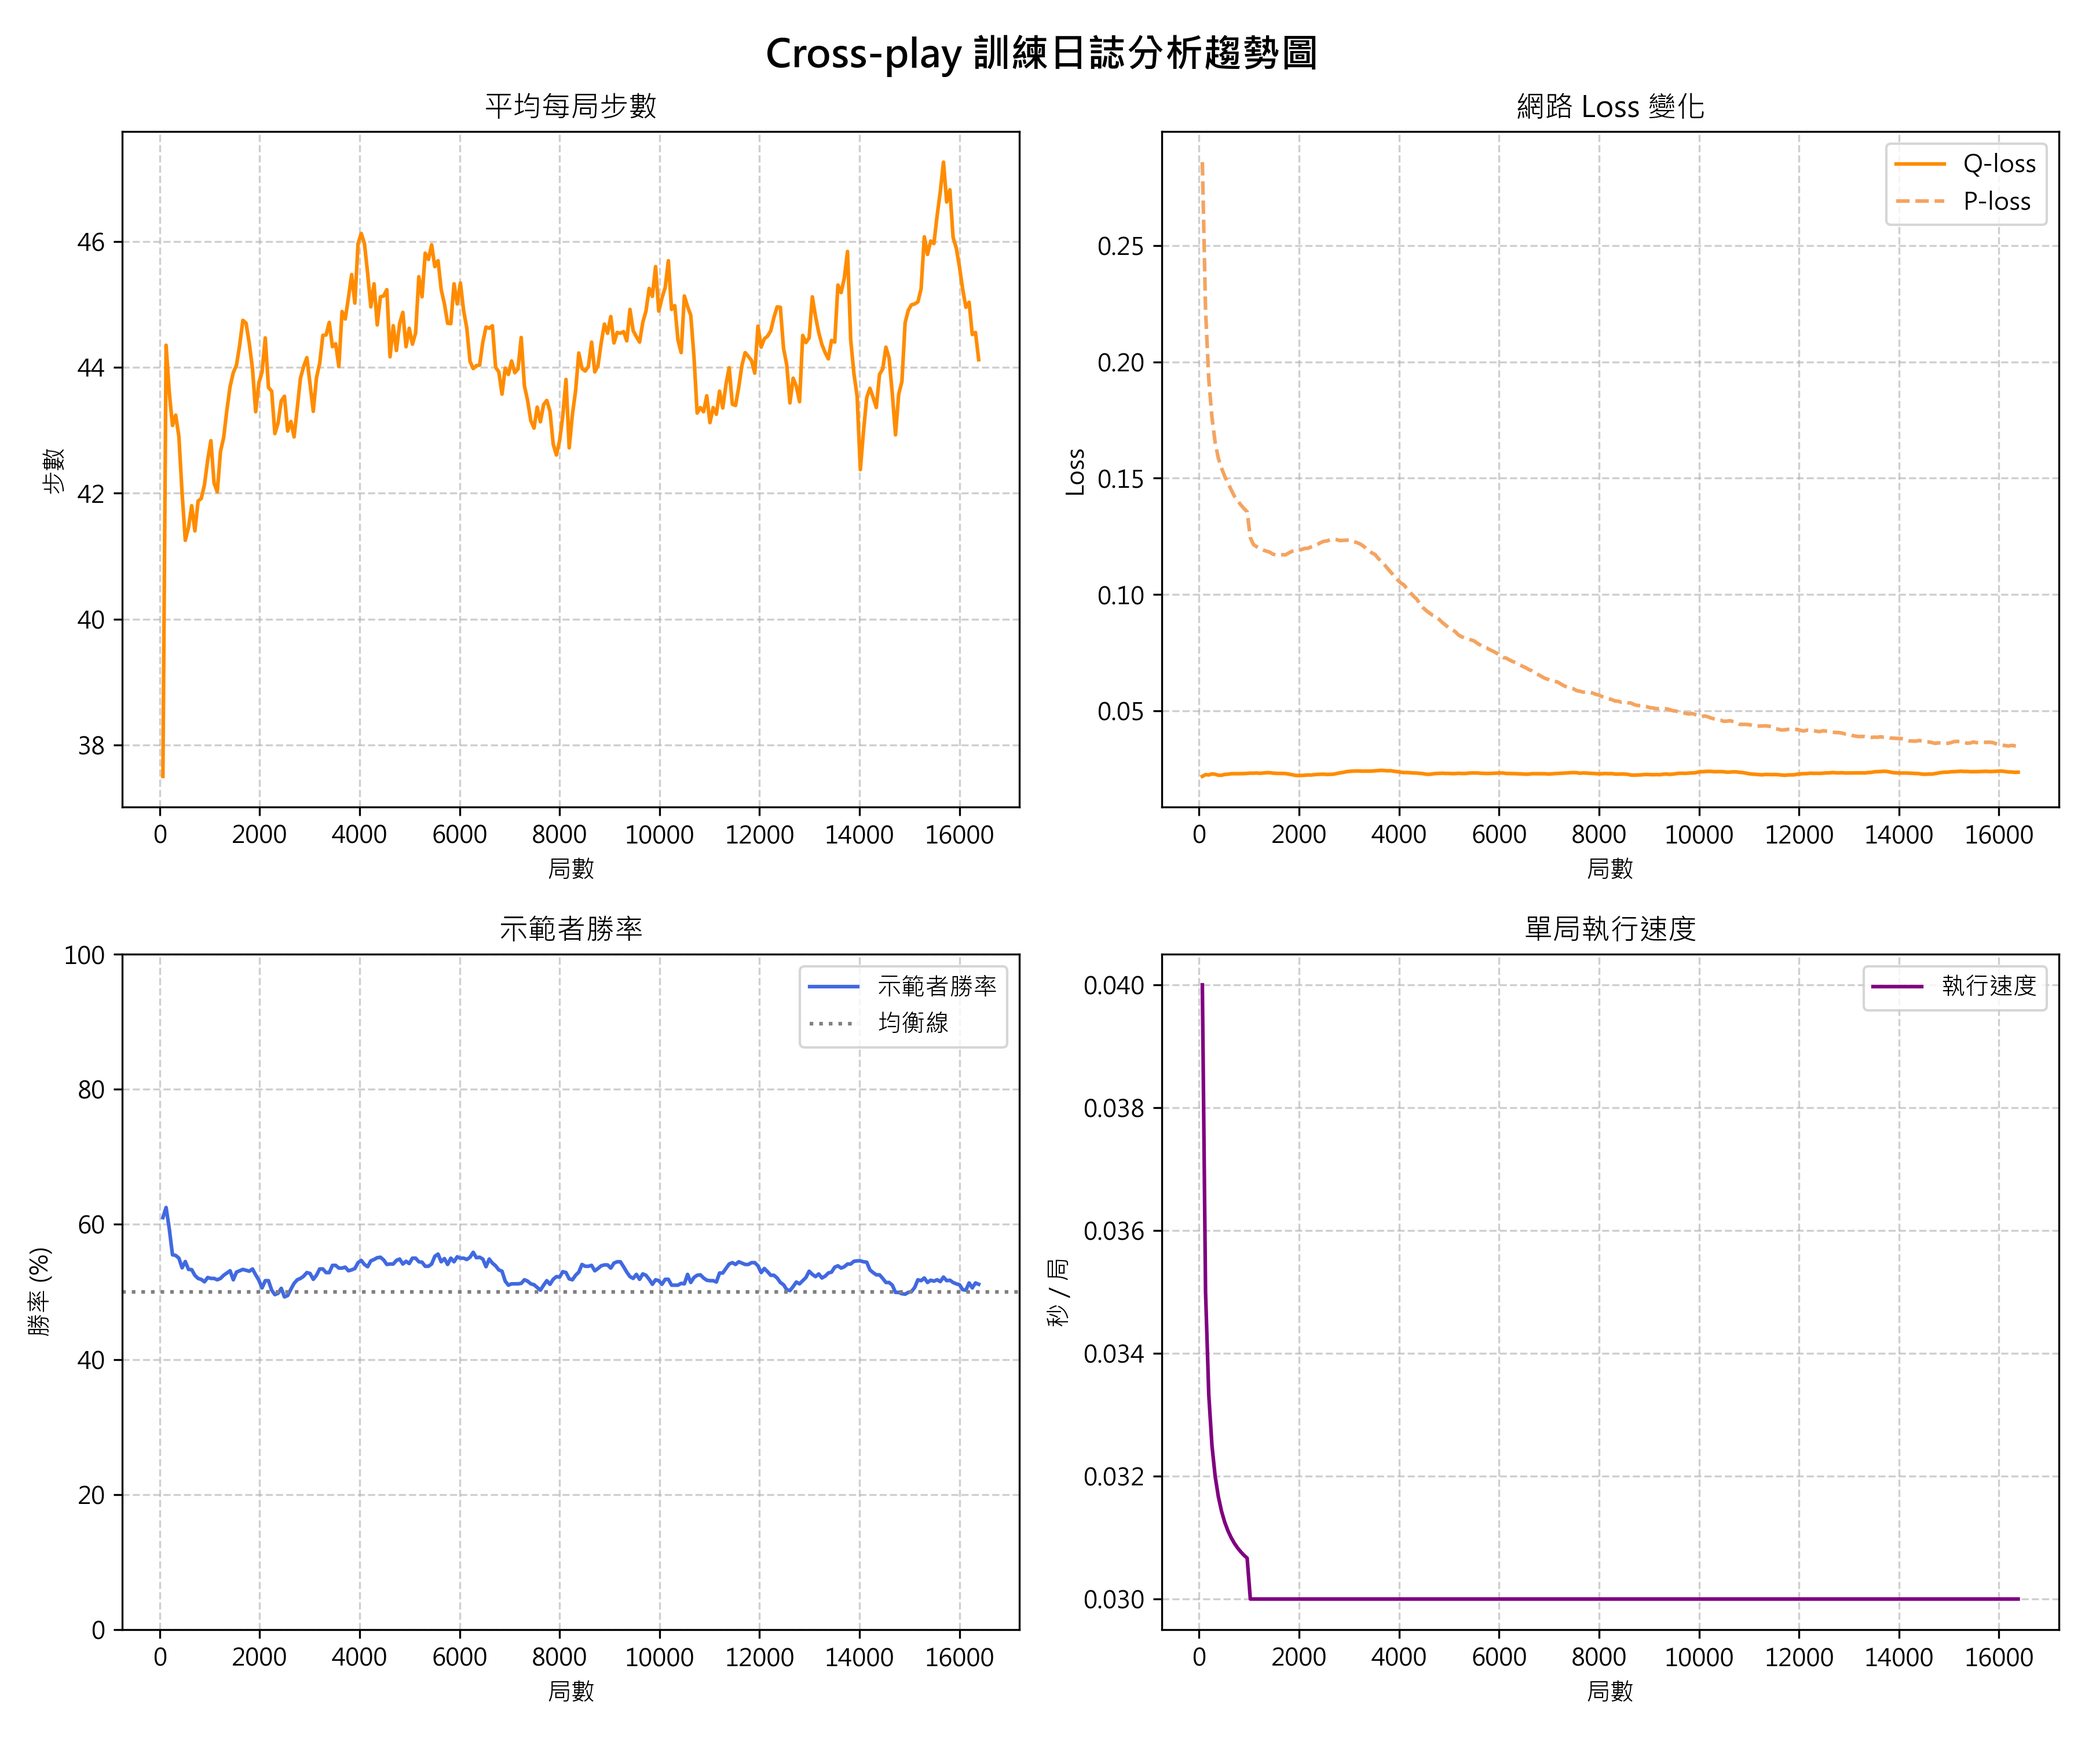
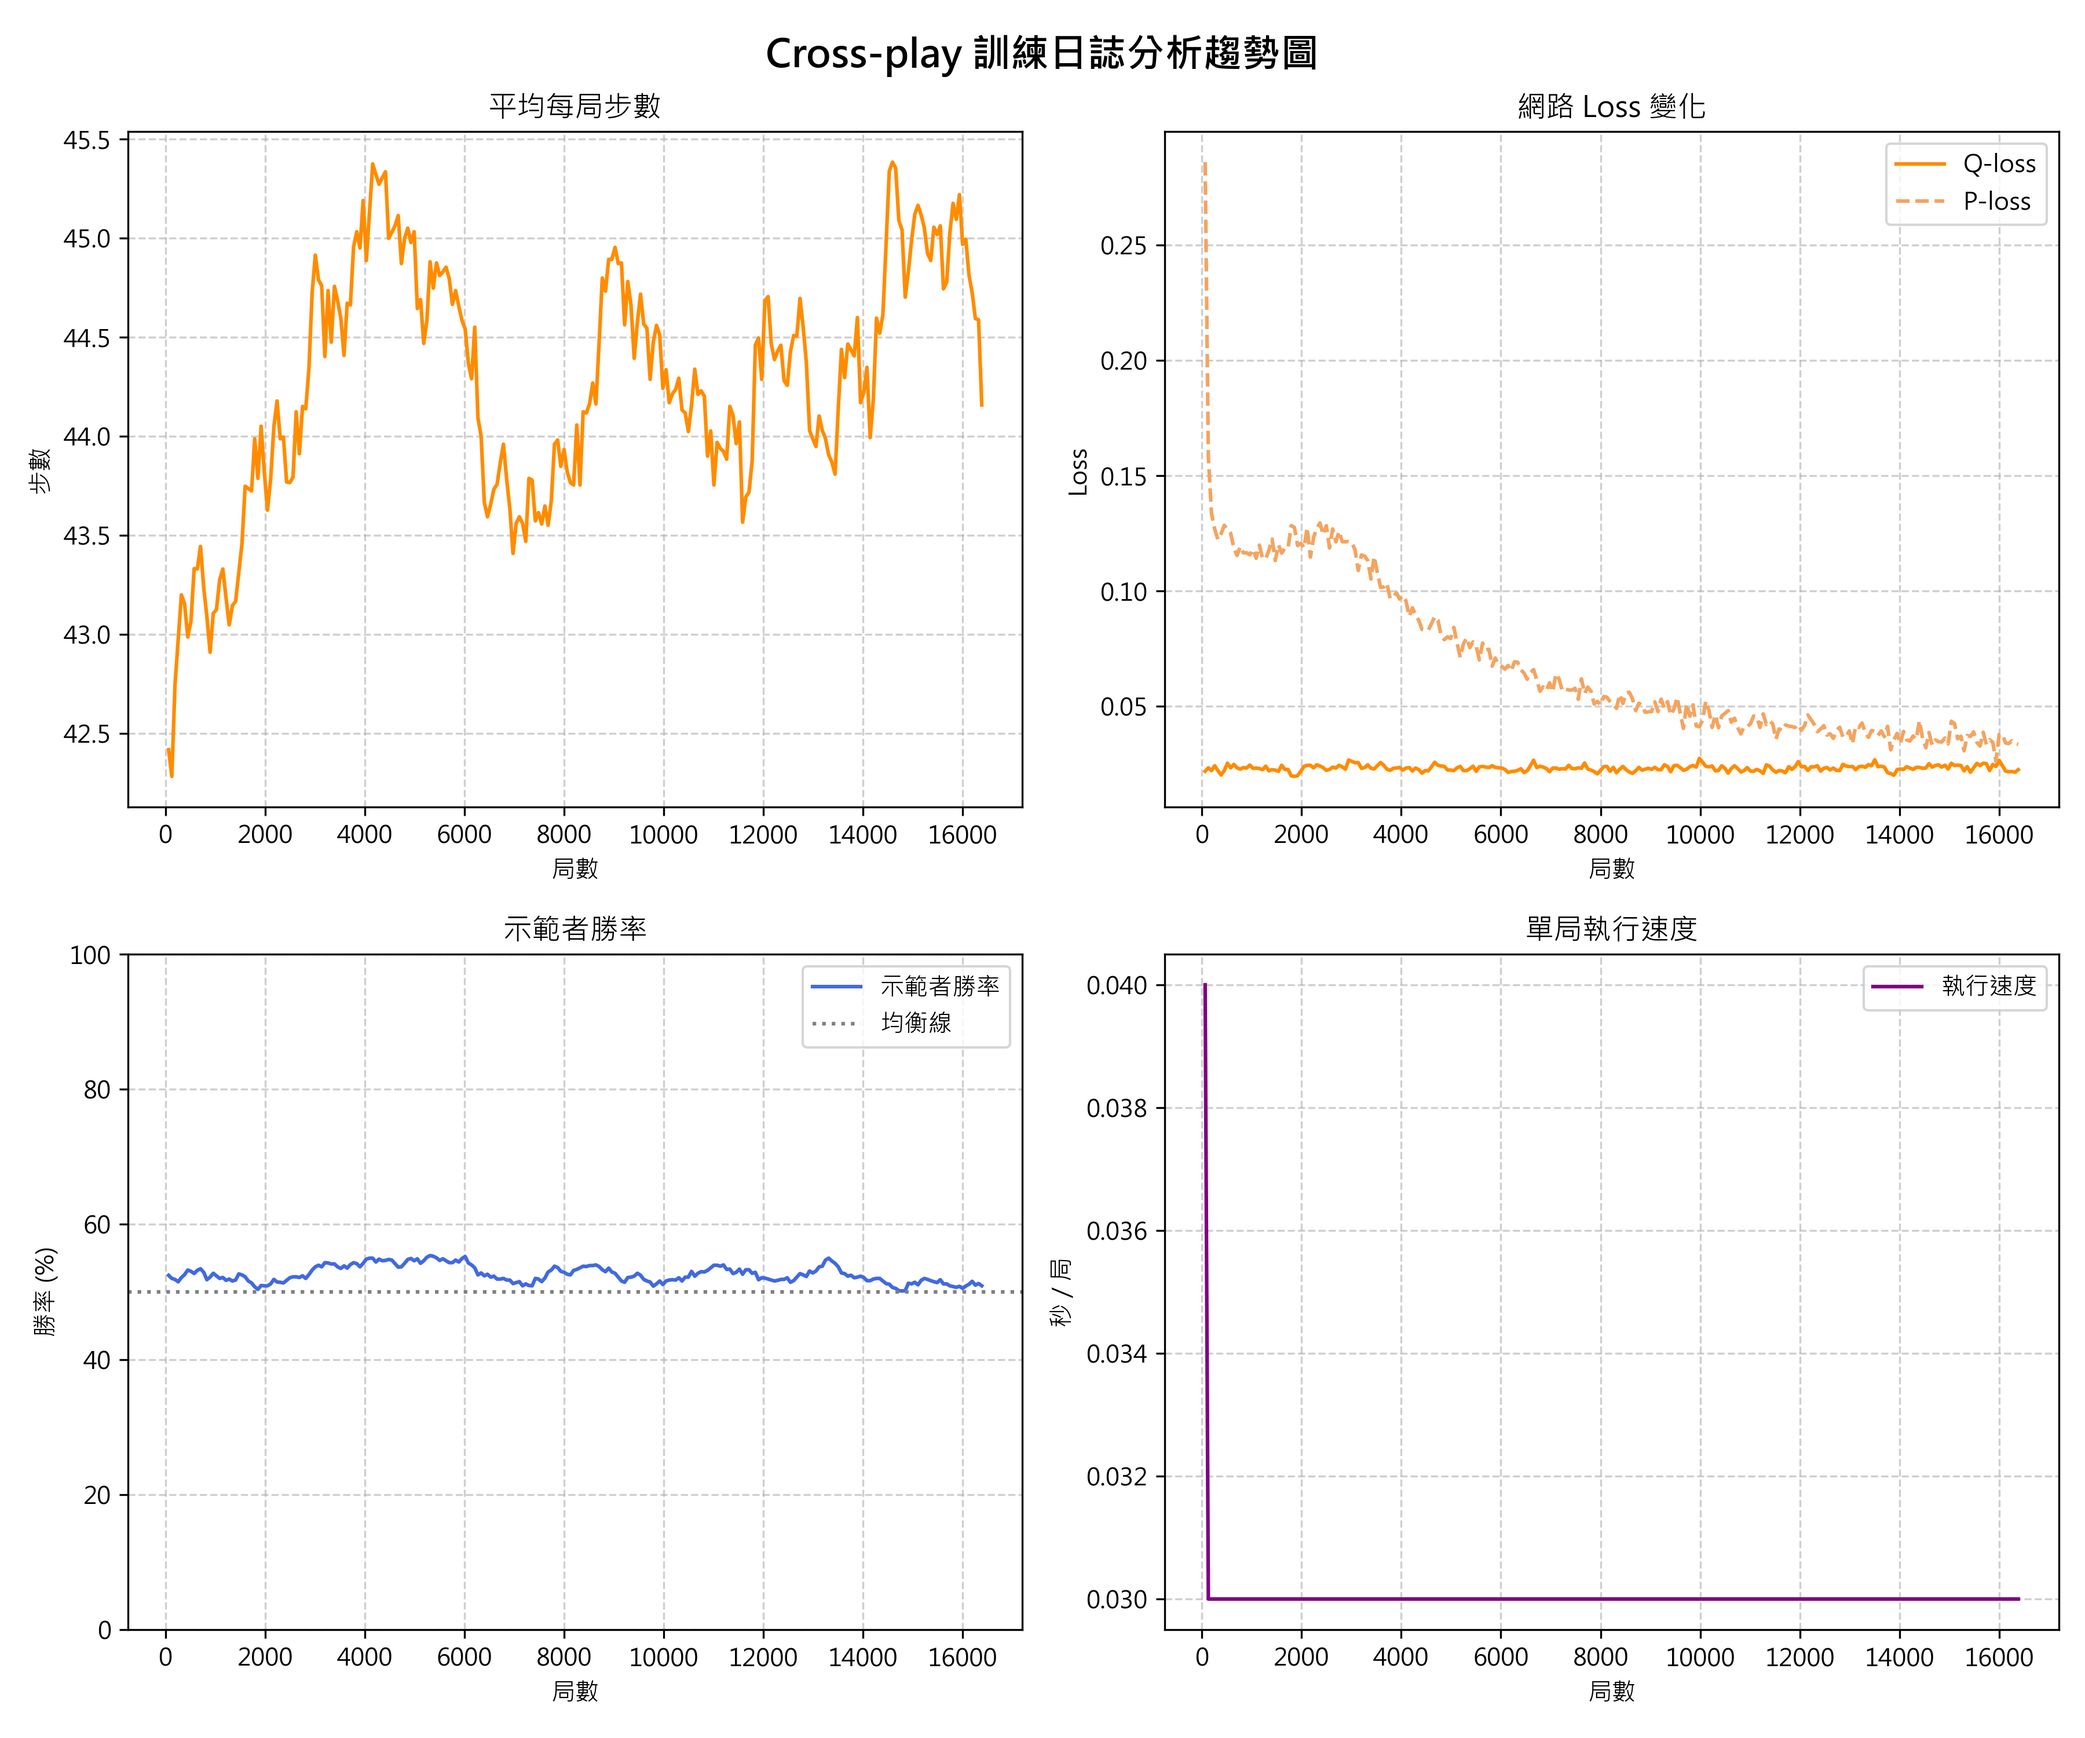
smooth better

diff --git a/src/visualize/log_parser.py b/src/visualize/log_parser.py
@@ -24,10 +24,12 @@ def smooth_data(values: list[float], window: int = 15) -> list[float]:
     """計算指定視窗大小的移動平均，使圖表平滑"""
     smoothed: list[float] = []
     n: int = len(values)
+    half_w: int = window // 2
     i: int
     for i in range(n):
-        start: int = max(0, i - window + 1)
-        chunk: list[float] = values[start : i + 1]
+        start: int = max(0, i - half_w)
+        end: int = min(n, i + half_w + 1)
+        chunk: list[float] = values[start : end]
         avg: float = sum(chunk) / float(len(chunk))
         smoothed.append(avg)
     return smoothed
@@ -60,12 +62,12 @@ def parse_selfplay_file(filepath: str) -> SelfPlayData:
     except FileNotFoundError: print(f"找不到檔案: {filepath}")
     
     if (data.steps):
-        data.steps      = smooth_data(data.steps, 15)
-        data.draw_rates = smooth_data(data.draw_rates, 15)
-        data.win_rates  = smooth_data(data.win_rates, 15)
+        data.steps      = smooth_data(data.steps, 32)
+        data.draw_rates = smooth_data(data.draw_rates, 32)
+        data.win_rates  = smooth_data(data.win_rates, 20)
         data.q_losses   = smooth_data(data.q_losses, 15)
         data.p_losses   = smooth_data(data.p_losses, 15)
-        data.speeds     = smooth_data(data.speeds, 15)
+        data.speeds     = data.speeds
     return data
 
 def parse_crossplay_file(filepath: str) -> CrossPlayData:
@@ -94,9 +96,9 @@ def parse_crossplay_file(filepath: str) -> CrossPlayData:
     except FileNotFoundError: print(f"找不到檔案: {filepath}")
     
     if (data.steps):
-        data.steps      = smooth_data(data.steps, 15)
-        data.win_rates  = smooth_data(data.win_rates, 15)
-        data.q_losses   = smooth_data(data.q_losses, 15)
-        data.p_losses   = smooth_data(data.p_losses, 15)
-        data.speeds     = smooth_data(data.speeds, 15)
+        data.steps      = smooth_data(data.steps    , 32)
+        data.win_rates  = smooth_data(data.win_rates, 20)
+        data.q_losses   = data.q_losses
+        data.p_losses   = data.p_losses
+        data.speeds     = data.speeds
     return data

diff --git a/src/visualize/plot_crossplay.py b/src/visualize/plot_crossplay.py
@@ -55,7 +55,7 @@ def main() -> None:
     ax_spd.grid(True, linestyle='--', alpha=0.6)
 
     plt.tight_layout()
-    plt.savefig("crossplay_result.png", dpi=300)
-    print("圖表已成功儲存至 crossplay_result.png")
+    plt.savefig("src\\visualize\\crossplay_result_smoothed.png", dpi=300)
+    print("圖表已成功儲存至 src\\visualize\\crossplay_result_smoothed.png")
 
 if __name__ == "__main__": main()

diff --git a/src/visualize/plot_selfplay.py b/src/visualize/plot_selfplay.py
@@ -55,7 +55,7 @@ def main() -> None:
     ax_draw.grid(True, linestyle='--', alpha=0.6)
 
     plt.tight_layout()
-    plt.savefig("selfplay_result.png", dpi=300)
-    print("圖表已成功儲存至 selfplay_result.png")
+    plt.savefig("src\\visualize\\selfplay_result_smoothed.png", dpi=300)
+    print("圖表已成功儲存至 src\\visualize\\selfplay_result_smoothed.png")
 
 if __name__ == "__main__": main()
